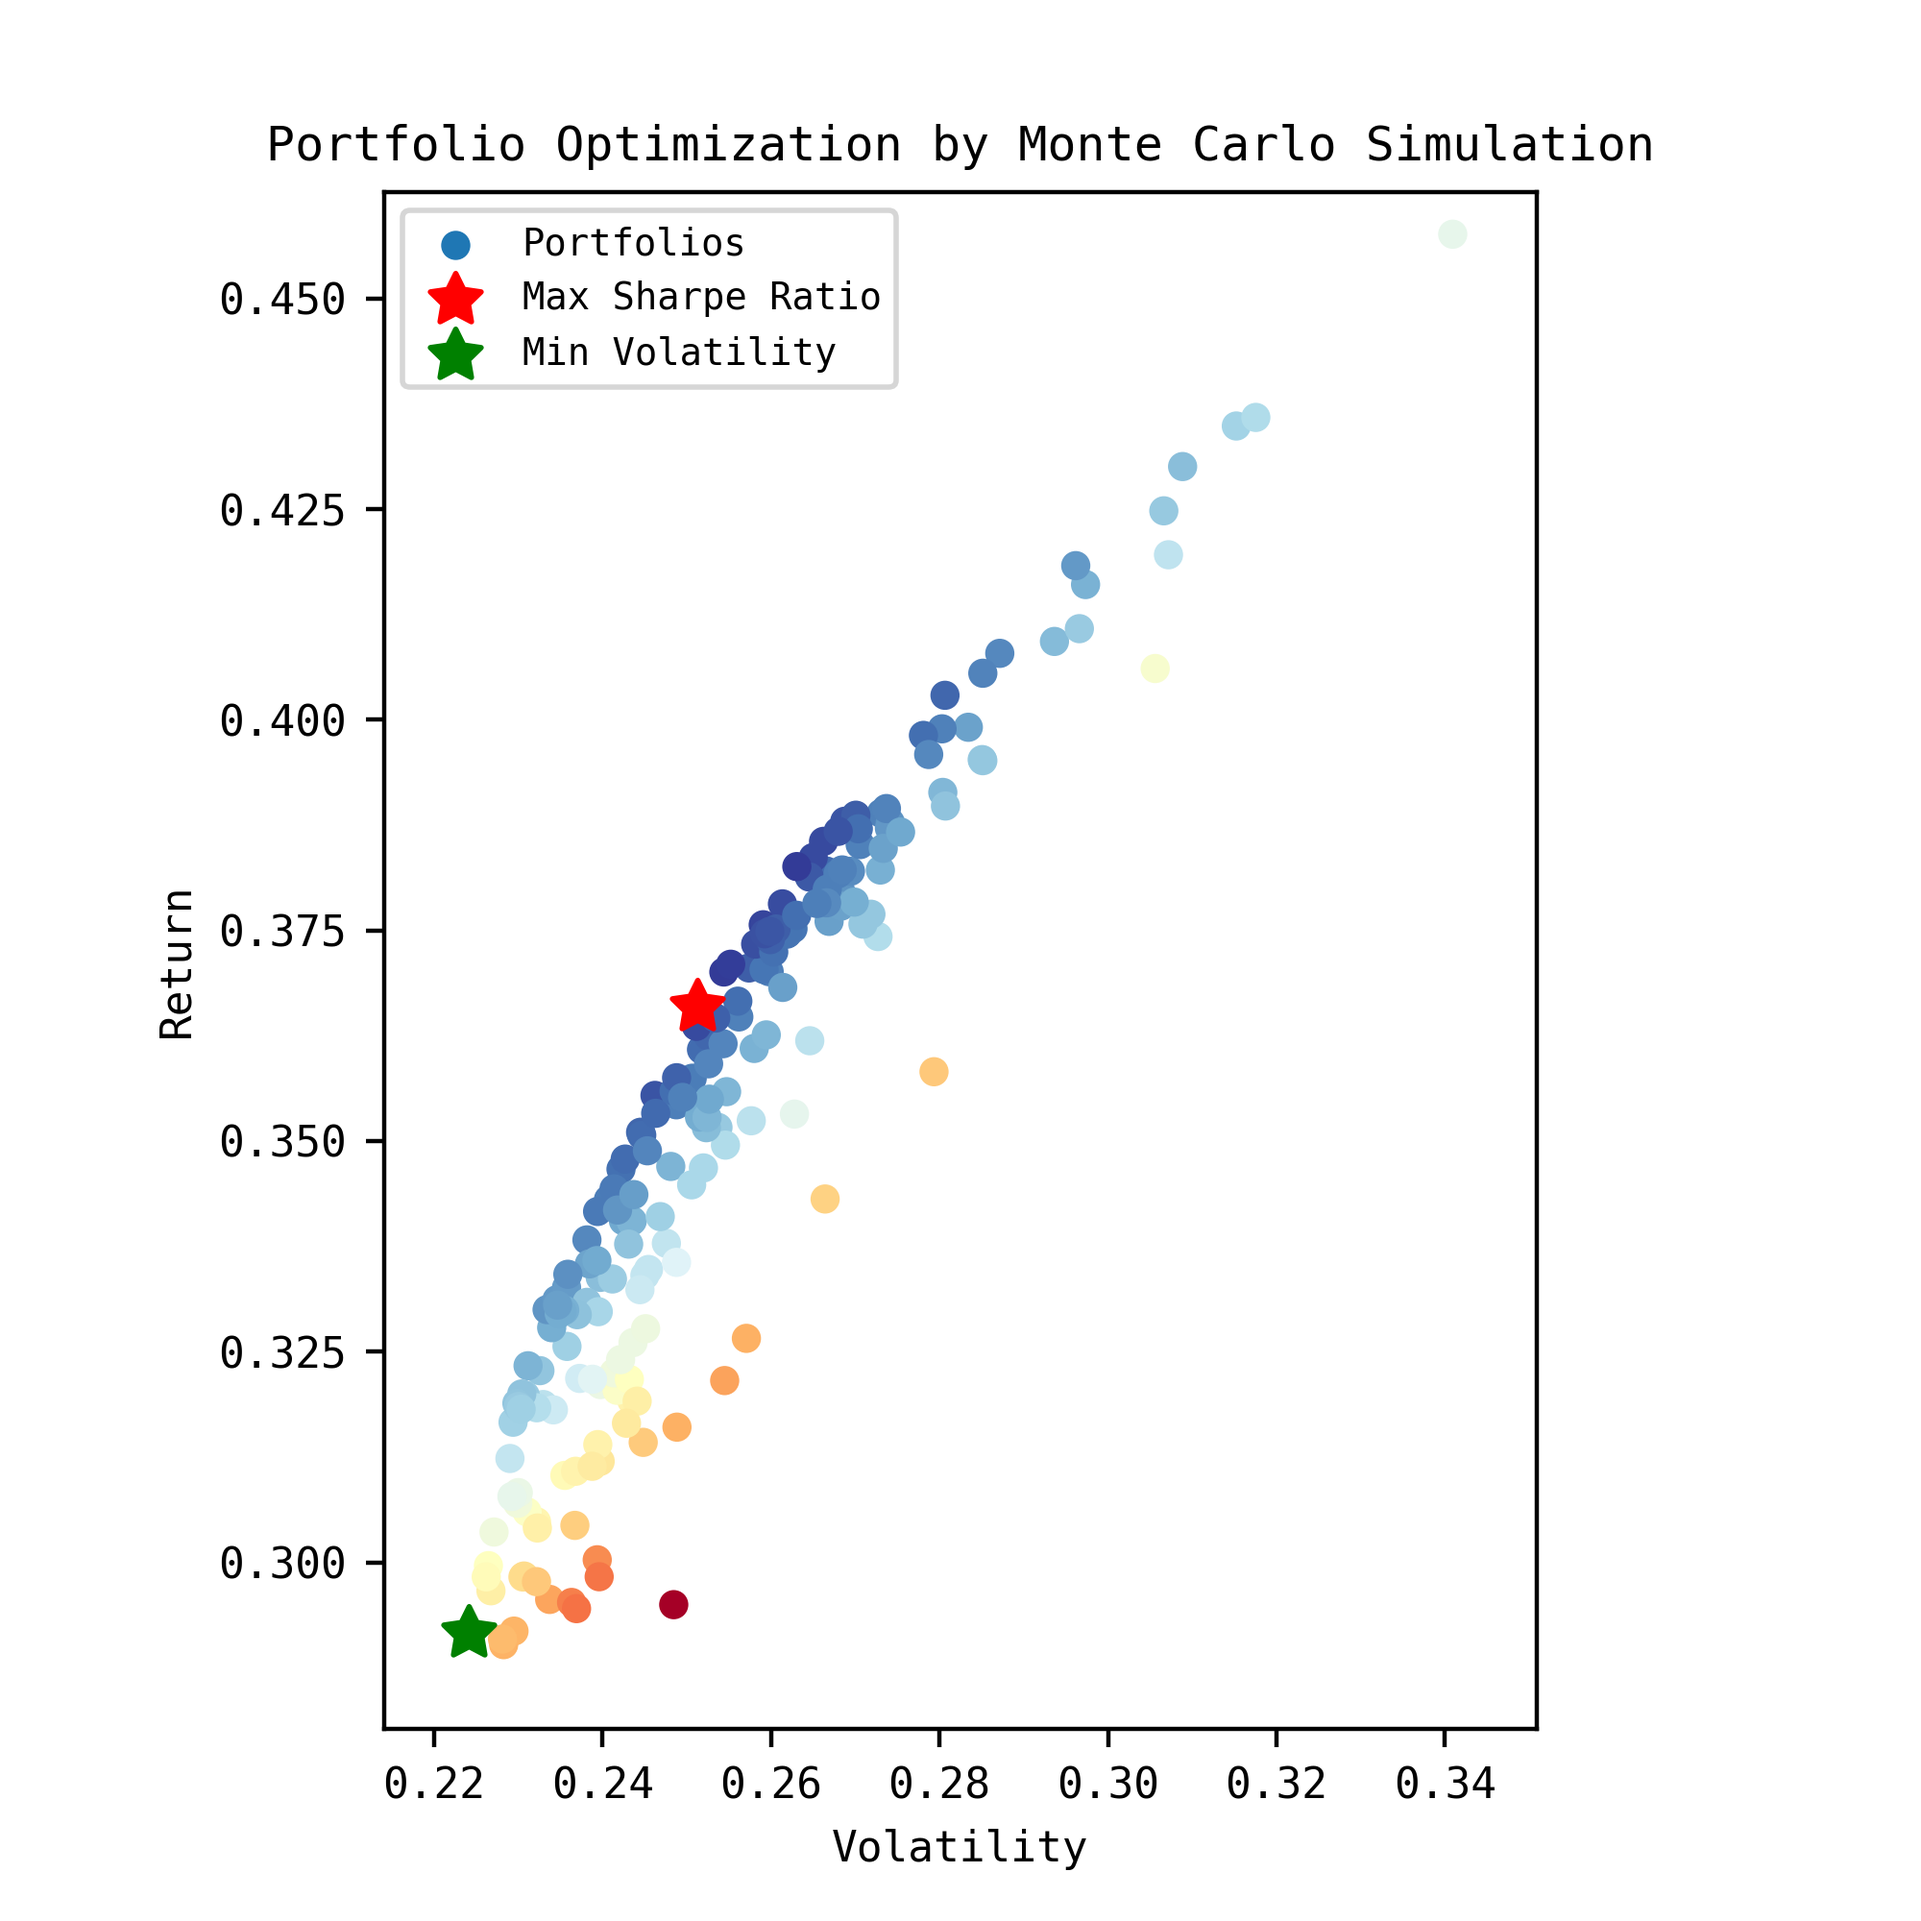
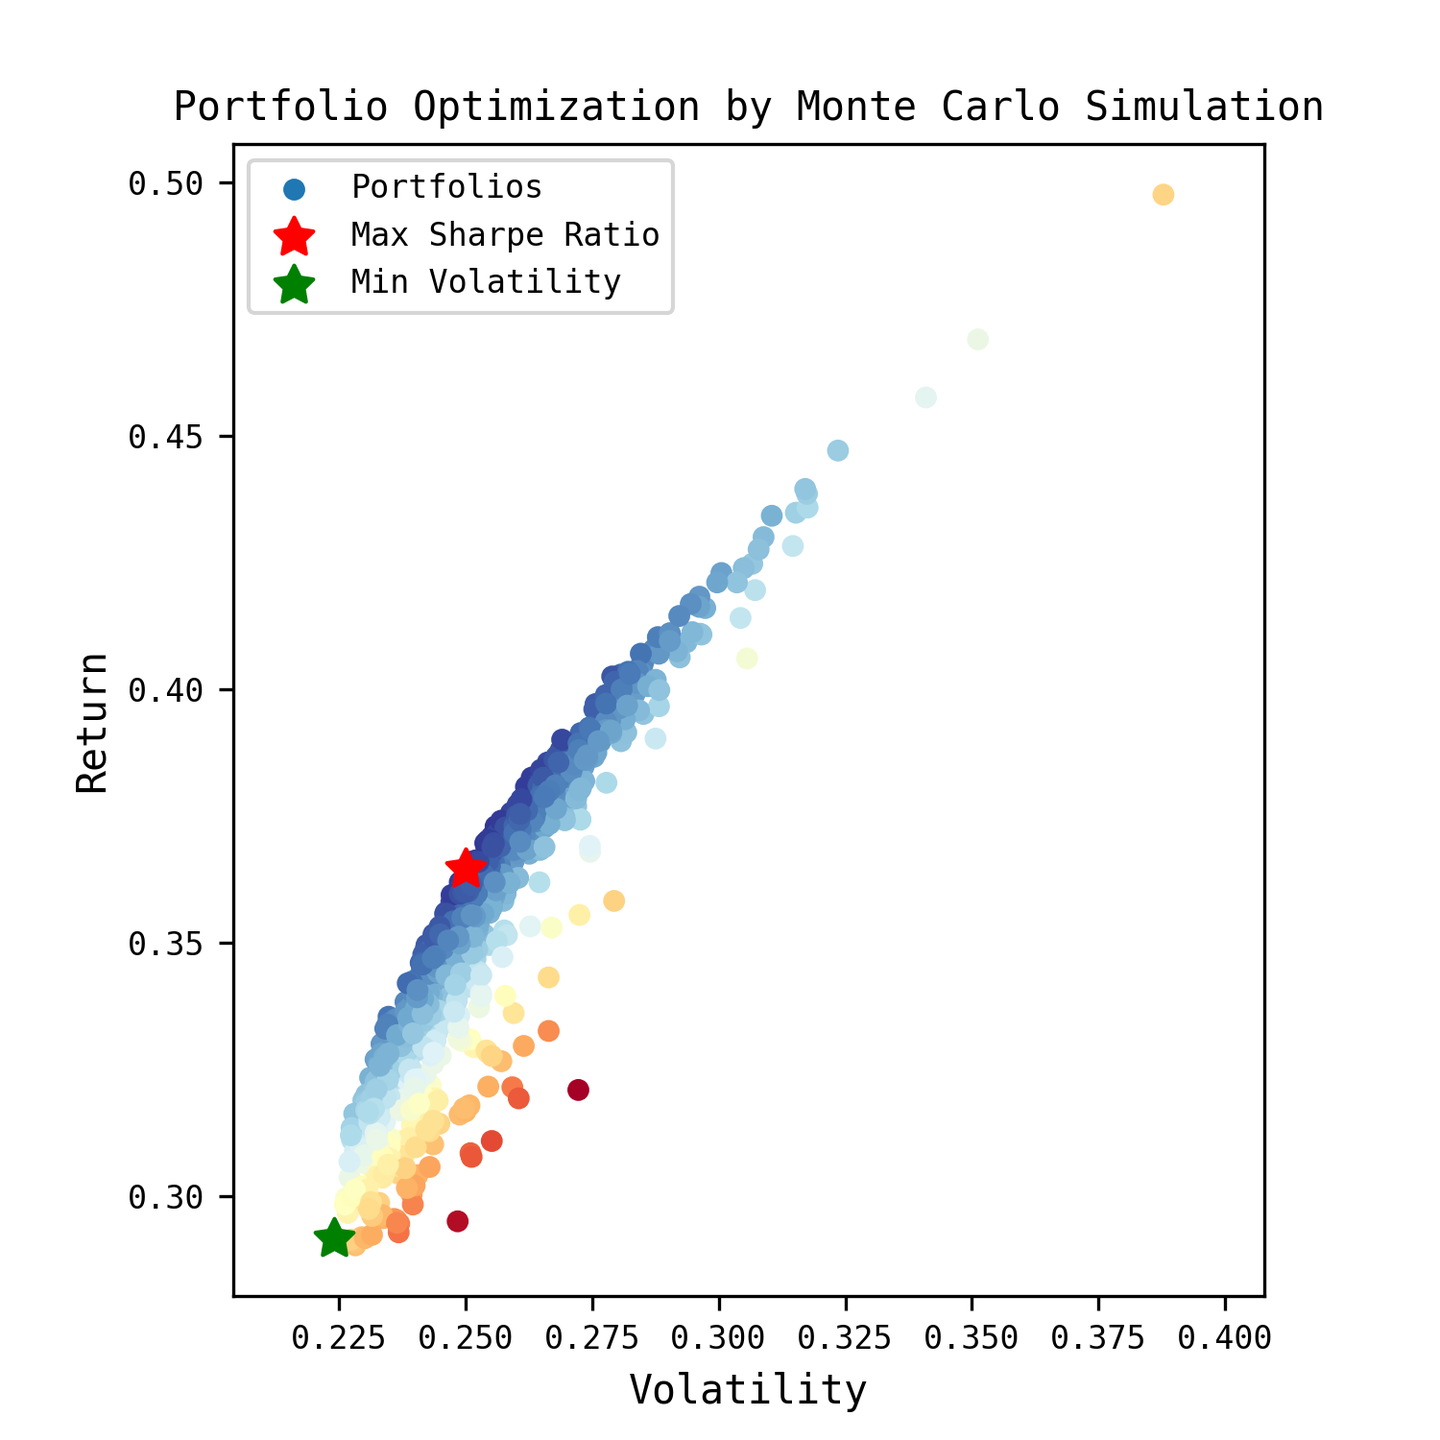
update requirements and figures

diff --git a/portfolio_visualize.py b/portfolio_visualize.py
@@ -6,28 +6,30 @@ class PortfolioVisualize:
 
     @staticmethod
     def visualize(df_results, best_indices_sim, gd_results, max_sharpe_port, stocks):
-        fig = plt.figure(figsize=(4, 5), dpi=100)
-        ax2 = fig.add_axes([0.1, 0.54, 0.8, 0.4])
-        ax3 = fig.add_axes([0.1, 0.08, 0.8, 0.4])
+        fig = plt.figure(figsize=(5, 6), dpi=300)
+        ax2 = fig.add_axes([0.12, 0.55, 0.8, 0.4])
+        ax3 = fig.add_axes([0.12, 0.07, 0.8, 0.4])
         ax2.sharex(ax3)
         _indices = best_indices_sim
         _x_sim = df_results.loc[_indices, 'stdev'].values.flatten()
         _y_sim = df_results.loc[_indices, 'ret'].values.flatten()
         ax2.scatter(_x_sim, _y_sim, color="blue", marker=".", label="Monte Carlo Simulation")
+        ax2.scatter(_x_sim[-1:], _y_sim[-1:], color="r", marker=(5, 1, 0), label="Max")
         ax2.quiver(_x_sim[:-1], _y_sim[:-1], _x_sim[1:] - _x_sim[:-1], _y_sim[1:] - _y_sim[:-1],
-                   scale_units='xy', angles='xy', width=0.003, scale=1, color="blue", joinstyle="round")
+                   scale_units='xy', angles='xy', width=0.005, scale=1, color="blue", joinstyle="round")
         _x_gd, _y_gd = gd_results[:, 1], gd_results[:, 0]
         ax3.scatter(_x_gd, _y_gd, color="purple", marker=".", label="Gradient Descent Solution")
+        ax3.scatter(_x_gd[-1:], _y_gd[-1:], color="r", marker=(5, 1, 0), label="Max")
         ax3.quiver(_x_gd[:-1], _y_gd[:-1], _x_gd[1:] - _x_gd[:-1], _y_gd[1:] - _y_gd[:-1],
-                   scale_units='xy', angles='xy', width=0.003, scale=1, color="purple", joinstyle="round")
+                   scale_units='xy', angles='xy', width=0.005, scale=1, color="purple", joinstyle="round")
         ax2.set_xlim(0.23, 0.28)
         ax2.set_ylim(0.3, 0.4)
         ax3.set_ylim(0.3, 0.4)
-        ax2.set_ylabel('Return', fontsize=9)
-        ax2.set_title('Maximize Sharpe Ratio - Monte Carlo Simulation', fontsize=9)
-        ax3.set_title('Maximize Sharpe Ratio - Gradient Descent Solution', fontsize=9)
-        ax3.set_ylabel('Return', fontsize=9)
-        ax3.set_xlabel('Volatility', fontsize=9)
+        ax2.set_ylabel('Return', fontsize=10)
+        ax2.set_title('Maximize Sharpe Ratio: Monte Carlo Simulation', fontsize=11)
+        ax3.set_title('Maximize Sharpe Ratio: Gradient Descent Solution', fontsize=11)
+        ax3.set_ylabel('Return', fontsize=10)
+        ax3.set_xlabel('Volatility', fontsize=10)
         ax2.tick_params(axis='x', labelsize=8)
         ax2.tick_params(axis='y', labelsize=8)
         ax3.tick_params(axis='x', labelsize=8)
@@ -39,10 +41,10 @@ class PortfolioVisualize:
         _max_sharpe_sim = "{0}{1:.3f}".format("Max Sharpe Ratio".ljust(18), max_sharpe_port["sharpe"])
         _max_sharpe_gd = "{0}{1:.3f}".format("Max Sharpe Ratio".ljust(18), gd_results[-1, 2])
         _sharpe_sim = "\n".join([_max_sharpe_sim] + weights_sim)
-        _text_sharpe_sim = ax2.text(0.265, 0.345, _sharpe_sim, fontsize=7, color='blue',
+        _text_sharpe_sim = ax2.text(0.26, 0.34, _sharpe_sim, fontsize=8, color='blue',
                                     horizontalalignment='left', verticalalignment='top')
         _sharpe_gd = "\n".join([_max_sharpe_gd] + weights_gd)
-        _text_sharpe_gd = ax3.text(0.265, 0.345, _sharpe_gd, fontsize=7, color='blue',
+        _text_sharpe_gd = ax3.text(0.26, 0.34, _sharpe_gd, fontsize=8, color='blue',
                                    horizontalalignment='left', verticalalignment='top')
         plt.savefig("figure_benchmark.png")
         fig_manager = plt.get_current_fig_manager()
@@ -51,8 +53,8 @@ class PortfolioVisualize:
 
     @staticmethod
     def visualize_simulation(df_results, max_sharpe_port, min_vol_port):
-        fig = plt.figure(figsize=(5, 5), dpi=100)
-        ax = fig.add_axes([0.1, 0.1, 0.8, 0.8])
+        fig = plt.figure(figsize=(5, 5), dpi=300)
+        ax = fig.add_axes([0.12, 0.1, 0.8, 0.8])
         # create scatter plot coloured by Sharpe Ratio
         data_points = ax.scatter(df_results.stdev,
                                  df_results.ret,
@@ -60,11 +62,11 @@ class PortfolioVisualize:
                                  label="Portfolios",
                                  c=df_results.sharpe, cmap='RdYlBu')
 
-        ax.set_title('Portfolio Optimization by Monte Carlo Simulation', fontsize=9)
-        ax.set_xlabel('Volatility', fontsize=8)
-        ax.set_ylabel('Return', fontsize=8)
-        ax.set_xlim(df_results['stdev'].min()-0.01, df_results['stdev'].max()+0.01)
-        ax.set_ylim(df_results['ret'].min()-0.01, df_results['ret'].max()+0.005)
+        ax.set_title('Portfolio Optimization by Monte Carlo Simulation', fontsize=10)
+        ax.set_xlabel('Volatility', fontsize=10)
+        ax.set_ylabel('Return', fontsize=10)
+        ax.set_xlim(df_results['stdev'].min()-0.02, df_results['stdev'].max()+0.02)
+        ax.set_ylim(df_results['ret'].min()-0.01, df_results['ret'].max()+0.01)
         ax.tick_params(axis='x', labelsize=8)
         ax.tick_params(axis='y', labelsize=8)
         ax.set_aspect(aspect="equal")
@@ -75,7 +77,7 @@ class PortfolioVisualize:
         # plot green star to highlight position of minimum variance portfolio
         min_vol = ax.scatter(min_vol_port[1], min_vol_port[0], marker=(5, 1, 0), color='g', s=100,
                              label="Min Volatility")
-        ax.legend(loc="upper left", fontsize=7)
+        ax.legend(loc="upper left", fontsize=8)
         plt.savefig("simulation.png")
         fig_manager = plt.get_current_fig_manager()
         fig_manager.window.showMaximized()

diff --git a/main.py b/main.py
@@ -12,7 +12,7 @@ if __name__ == "__main__":
     # convert daily stock prices into daily returns
     data = PortfolioOptimization.load_stock_data(stocks)
     # set number of runs of random portfolio weights
-    num_portfolios = 200
+    num_portfolios = 800
     t0 = time.time()
     results, initial_weights, best_indices = PortfolioOptimization.optimize_portfolio_by_simulation(
         df_stocks=data, n_portfolios=num_portfolios)
@@ -32,5 +32,5 @@ if __name__ == "__main__":
     print(max_sharpe_port)
     # locate position of portfolio with minimum standard deviation
     min_vol_port = results_frame.iloc[results_frame['stdev'].idxmin()]
-    # PortfolioVisualize.visualize(results_frame, best_indices, g_results, max_sharpe_port, stocks)
+    PortfolioVisualize.visualize(results_frame, best_indices, g_results, max_sharpe_port, stocks)
     PortfolioVisualize.visualize_simulation(results_frame, max_sharpe_port, min_vol_port)
